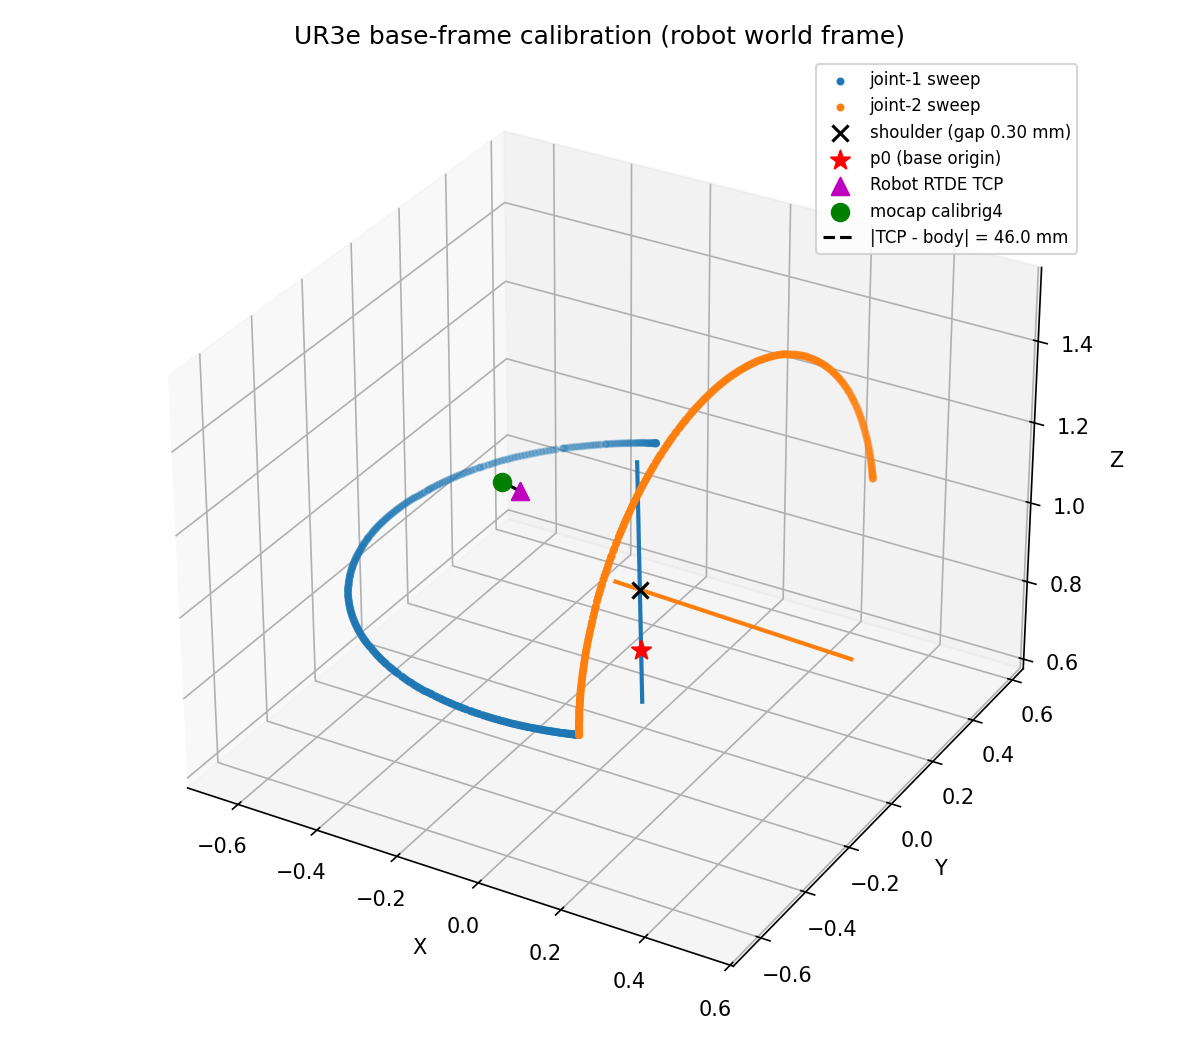
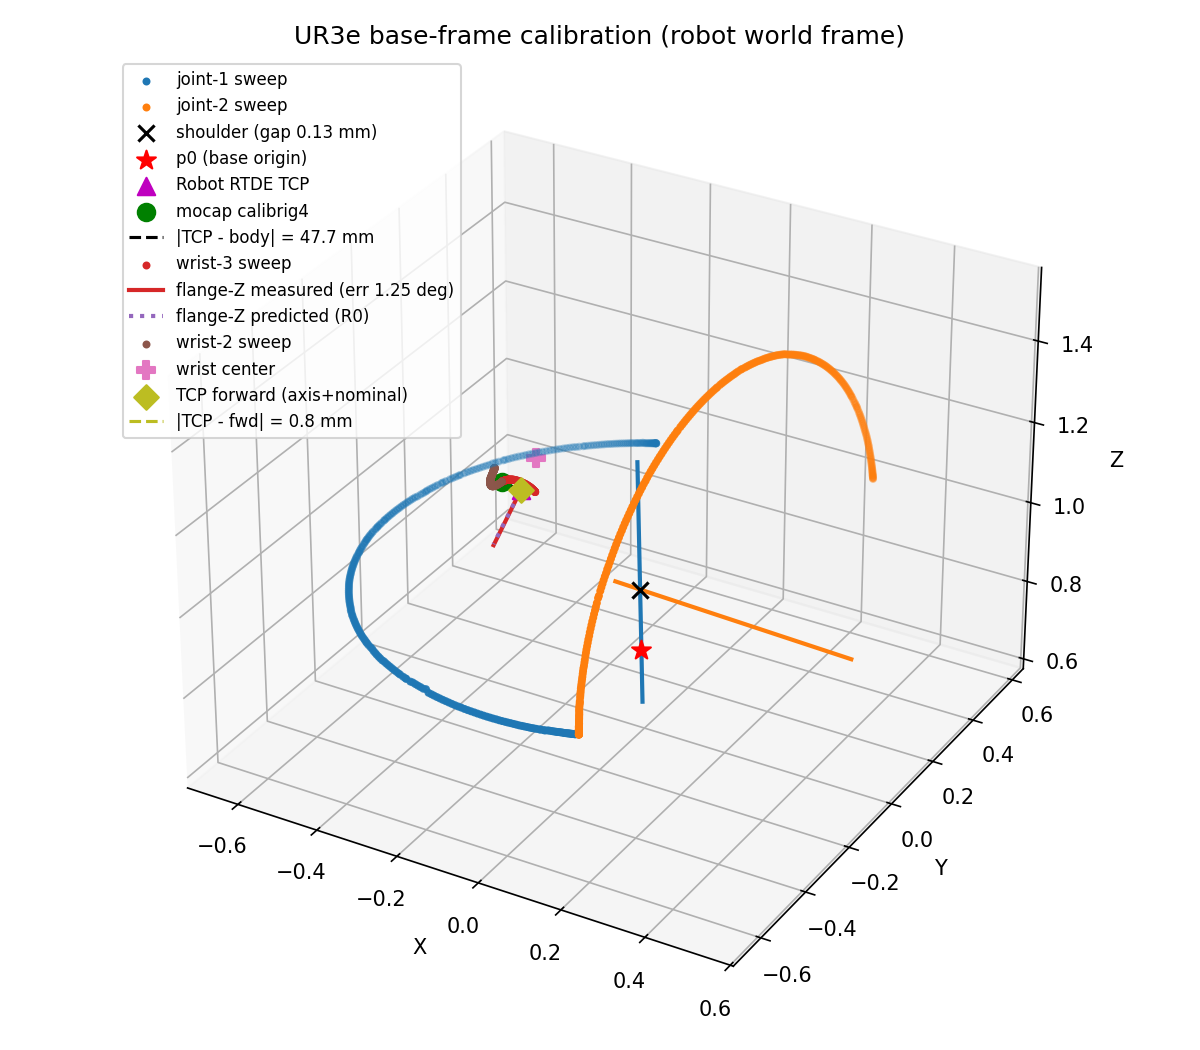
UR3 deploy: self-describing policy artifacts + task_home pick loop
Training (UR10_ppo.py, shared by UR10/UR3): add inference_config.json to the
W&B model artifact so the trained policy carries its own network_factory +
obs/action sizes.

Deploy loader (ur3_realrobot_dependencies.download_policy_from_wandb): build
metadata.json from the artifact's inference_config.json when present (real
network architecture), falling back to run.config + registry for older runs;
warn on obs/act mismatch. Fixes policy load after the prior runs logged
network_factory=None in run.config.

Pick loop (ur3_realrobot_pickloop.py): VRPN mocap reader (CubeInCube2), live
robot config (192.168.1.4, ext-urcap + gripper), Q_START = task_home with
gripper opened at start, on SUCCESS wait 3s -> open fingers -> moveJ back to
task_home, save full per-step states to CSV.

Sweep (UR3Pick_sweep.jsonl): init_keyframe tucked -> task_home for both configs.

Also includes UR3 RTDE test notebook + base-frame calibration updates.

diff --git a/robots/UR3e/ur3_realrobot_pickloop.py b/robots/UR3e/ur3_realrobot_pickloop.py
@@ -18,6 +18,7 @@ For a URSim dry-run set ROBOT_IP=127.0.0.1 and ENABLE_GRIPPER=False.
 
 import os
 import platform
+import time
 
 os.environ["XLA_FLAGS"] = "--xla_force_host_platform_device_count=1"
 if platform.system() == "Darwin":
@@ -31,14 +32,14 @@ from ur3_realrobot_dependencies import UR3RealRobotPick
 import sys
 sys.path.insert(0, os.path.join(os.path.dirname(os.path.abspath(__file__)),
                                 "../.."))
-from motion_capture.mymocap.mocap_dependencies import NokovRigidBodyReader
+from motion_capture.mymocap.vrpn_dependencies import VRPNRigidBodyReader
 from robots.hande.HandE_dependency import HandEGripper
 
 # ===========================================================================
 # CONFIGURATION
 # ===========================================================================
 
-ROBOT_IP = "192.168.1.2"          # real UR3; URSim = "127.0.0.1"
+ROBOT_IP = "192.168.1.4"          # real UR3e (PolyScope X); URSim = "127.0.0.1"
 
 # Arm control path. On PolyScope X the headless script ur_rtde normally uploads
 # does NOT run; set USE_EXT_URCAP=True to drive the arm via the External Control
@@ -46,23 +47,24 @@ ROBOT_IP = "192.168.1.2"          # real UR3; URSim = "127.0.0.1"
 # program (Host IP = this PC, port = UR_CAP_PORT) is PLAYING on the pendant with the
 # robot in Remote Control — i.e. pressing Play on the pendant is the robot-side
 # "go" gate. Leave False for the URSim dry-run (script-upload path, no gate).
-USE_EXT_URCAP = False
+USE_EXT_URCAP = True
 UR_CAP_PORT = 50002
 
 # Drop target (where to bring the box). UR3-reachable workspace.
-DROP_TARGET = [0.30, 0.10, 0.15]
+DROP_TARGET = [0.45, -0.10, 0.10]
 
-# Start pose — UR3 "low_home" keyframe arm angles from mjx_single_cube_position_ur3.xml
-Q_START = [0, -1.7, 2.25, -2.15, -1.5, -1.5]
+# Start pose — UR3 "task_home" keyframe arm angles from mjx_single_cube_position_ur3.xml
+# (gripper is opened separately below, since servoJ/moveJ only covers the 6 arm joints)
+Q_START = [0, -2.0, 1.6, -1.6, -1.5, 0]
 
 # Motion capture
 MOCAP_SERVER_IP = "10.1.1.198"
-MOCAP_RIGID_BODY_NAME = "CubeInCube"  # streamed rigid-body name; None = first body
-MOCAP_RIGID_BODY_ID = None        # optional override by integer id (takes precedence)
+MOCAP_RIGID_BODY_NAME = "CubeInCube2"  # streamed VRPN tracker name
+MOCAP_RIGID_BODY_ID = None        # kept for run-metadata only (VRPN reads by name)
 
 # Gripper: True drives the real Hand-E via the HandEGripper wrapper (Robotiq URCapX
 # XML-RPC, PolyScope X); False = no-op (URSim dry-run / arm-only test).
-ENABLE_GRIPPER = False
+ENABLE_GRIPPER = True
 GRIPPER_PORT = 49999              # Robotiq URCapX XML-RPC server (PolyScope X)
 GRIPPER_SLAVE_ID = 9             # this Hand-E = slaveId 9 ("Gripper ID 1")
 GRIPPER_SPEED_PCT = 100
@@ -78,8 +80,8 @@ CONTROL_HZ = 50.0
 ACTION_SCALE = 0.04
 LOOKAHEAD_TIME = 0.1              # servoj smoothing [0.03, 0.2]
 GAIN = 300                        # servoj stiffness [100, 2000]
-SERVOJ_A = 1.0                    # max joint accel [rad/s^2]
-SERVOJ_V = 1.0                    # max joint vel  [rad/s]
+SERVOJ_A = 0.2                    # max joint accel [rad/s^2]
+SERVOJ_V = 0.2                    # max joint vel  [rad/s]
 ALPHA = 1.0
 USE_FK_TCP = True                 # compute tcp_pos via MuJoCo FK (matches sim site)
 
@@ -97,11 +99,12 @@ POLICY_PATH = os.path.join(
 
 # W&B policy download (used only if POLICY_PATH does not already exist).
 # Fill WANDB_RUN_ID with the trained run id after the cluster job completes.
-WANDB_RUN_ID = None               # e.g. "ur3pick_baseline_20260605_..."
+WANDB_RUN_ID = "pickOrient4cm_lr_low_longunroll_20260607_125238_2201"              # e.g. "ur3pick_baseline_20260605_..."
 WANDB_ENTITY = "weissma6-zhaw-school-of-engineering"
 WANDB_PROJECT = "UR3_pick_ppo"
 FOLDER_OUT = os.path.join(SCRIPT_DIR, "results")
 VIDEO_OUT = os.path.join(FOLDER_OUT, "ur3_pick_replay.mp4")
+CSV_OUT = os.path.join(FOLDER_OUT, "ur3_pick_states.csv")
 PLOTS_OUT = os.path.join(FOLDER_OUT, "ur3_pick_plots.png")
 META_OUT = os.path.join(FOLDER_OUT, "ur3_pick_meta.json")
 VIDEO_FPS = 50.0
@@ -129,12 +132,10 @@ if not robot.is_connected():
     )
 robot.print_feedback()
 
-# ── Connect mocap ──────────────────────────────────────────────────────
-_body_label = MOCAP_RIGID_BODY_ID if MOCAP_RIGID_BODY_ID is not None else MOCAP_RIGID_BODY_NAME
-print(f"\nConnecting to mocap {MOCAP_SERVER_IP} (rigid body {_body_label}) ...")
-mocap = NokovRigidBodyReader(
+# ── Connect mocap (VRPN) ───────────────────────────────────────────────
+print(f"\nConnecting to mocap {MOCAP_SERVER_IP} (rigid body {MOCAP_RIGID_BODY_NAME}) ...")
+mocap = VRPNRigidBodyReader(
     MOCAP_SERVER_IP,
-    rigid_body_id=MOCAP_RIGID_BODY_ID,
     rigid_body_name=MOCAP_RIGID_BODY_NAME,
 )
 if not mocap.start(timeout=5.0):
@@ -144,6 +145,26 @@ if not mocap.start(timeout=5.0):
     )
 box0 = mocap.get_rigid_body_xyz()
 print(f"Initial box (mocap): {None if box0 is None else np.round(box0, 4).tolist()}")
+
+# ── Gripper wiring ─────────────────────────────────────────────────────
+# run_policy_loop passes gripper_norm in [0,1] (0=open, 1=closed); the policy's
+# tendon-ctrl span [0,0.05] maps to per-finger [0,0.025] m, so norm*0.025 is the
+# sim finger value the wrapper expects. ENABLE_GRIPPER=False keeps the dry-run no-op.
+gripper = None
+if ENABLE_GRIPPER:
+    gripper = HandEGripper(
+        ROBOT_IP, port=GRIPPER_PORT, slave_id=GRIPPER_SLAVE_ID,
+        speed_pct=GRIPPER_SPEED_PCT, force_pct=GRIPPER_FORCE_PCT,
+    )
+    gripper.connect()
+    gripper.open_gripper()  # start the task with fingers open
+    gripper_fn = lambda norm: gripper.command(norm * 0.025)  # noqa: E731
+else:
+    gripper_fn = lambda norm: None  # noqa: E731
+
+target = np.array(DROP_TARGET, dtype=np.float32)
+print(f"\nDrop target : {target.tolist()}")
+print(f"Starting pick loop at {CONTROL_HZ} Hz ...")
 
 # ── Move to start ──────────────────────────────────────────────────────
 print(f"\nMoving to start pose {Q_START}")
@@ -166,24 +187,7 @@ robot.load_policy_fn(policy_path=POLICY_PATH, deterministic=True)
 if USE_FK_TCP:
     robot.init_fk_model(MODEL_PATH)
 
-# ── Gripper wiring ─────────────────────────────────────────────────────
-# run_policy_loop passes gripper_norm in [0,1] (0=open, 1=closed); the policy's
-# tendon-ctrl span [0,0.05] maps to per-finger [0,0.025] m, so norm*0.025 is the
-# sim finger value the wrapper expects. ENABLE_GRIPPER=False keeps the dry-run no-op.
-gripper = None
-if ENABLE_GRIPPER:
-    gripper = HandEGripper(
-        ROBOT_IP, port=GRIPPER_PORT, slave_id=GRIPPER_SLAVE_ID,
-        speed_pct=GRIPPER_SPEED_PCT, force_pct=GRIPPER_FORCE_PCT,
-    )
-    gripper.connect()
-    gripper_fn = lambda norm: gripper.command(norm * 0.025)  # noqa: E731
-else:
-    gripper_fn = lambda norm: None  # noqa: E731
 
-target = np.array(DROP_TARGET, dtype=np.float32)
-print(f"\nDrop target : {target.tolist()}")
-print(f"Starting pick loop at {CONTROL_HZ} Hz ...")
 
 # ── Run policy loop ────────────────────────────────────────────────────
 df, stats = robot.run_policy_loop(
@@ -208,6 +212,20 @@ final_dist = stats["final_box_to_target_dist"]
 print(f"\nFinal box->target: {final_dist * 1000:.1f} mm — "
       f"{'REACHED' if final_dist < REACH_TOL else 'NOT REACHED'}")
 print(f"Steps: {len(df)}, wall time: {stats['total_wall_time_s']:.2f}s")
+
+# ── Success + release ──────────────────────────────────────────────────
+reached = final_dist < REACH_TOL
+if reached:
+    print("\nSUCCESS")
+    time.sleep(3.0)
+    if gripper is not None:
+        gripper.open_gripper()   # direction-independent URCapX open
+    else:
+        gripper_fn(0.0)          # dry-run no-op / norm=0 = open
+    print("Gripper opened.")
+    print(f"Returning to task_home {Q_START}")
+    robot.send_movej(Q_START, a=1.0, v=0.5, asynchronous=False)  # blocking moveJ
+
 robot.print_stats(stats, keys=[
     "true_inferred_frequency_hz",
     "mean_loop_hz_true",
@@ -229,7 +247,9 @@ frames, actual_fps = robot.render_video_from_log(mj, df, video_fps=VIDEO_FPS)
 robot.save_video(frames, out_path=VIDEO_OUT, fps=actual_fps)
 print(f"Video: {VIDEO_OUT}")
 
-# ── Save plots + metadata ──────────────────────────────────────────────
+# ── Save full per-step state + plots + metadata ────────────────────────
+df.to_csv(CSV_OUT, index=False)
+print(f"States: {CSV_OUT}")
 robot.save_plots(df, out_path=PLOTS_OUT)
 robot.save_run_metadata(
     META_OUT,

diff --git a/robots/UR3e/ur3_realrobot_dependencies.py b/robots/UR3e/ur3_realrobot_dependencies.py
@@ -354,20 +354,45 @@ class UR3RealRobotPick:
         art_dir = policy_art.download(root=os.path.join(out_dir, "_artifact"))
         shutil.copyfile(os.path.join(art_dir, "params.msgpack"), params_out)
 
-        env_name = run.config.get("env_name", "UR3Pick")
+        # Prefer the inference_config.json shipped inside the artifact (carries the
+        # real network_factory + obs/action sizes); fall back to run.config + the
+        # registry for older runs that predate self-describing artifacts.
+        inf_cfg_path = os.path.join(art_dir, "inference_config.json")
+        inf_cfg = {}
+        if os.path.exists(inf_cfg_path):
+            with open(inf_cfg_path) as f:
+                inf_cfg = _json.load(f)
+
+        env_name = inf_cfg.get("env_name") or run.config.get("env_name", "UR3Pick")
         env = registry.load(env_name)
-        nf = run.config.get("network_factory", {}) or {}
+        reg_obs, reg_act = int(env.observation_size), int(env.action_size)
+
+        if inf_cfg:
+            nf = inf_cfg.get("network_factory", {}) or {}
+            obs_dim = int(inf_cfg.get("observation_size", reg_obs))
+            action_dim = int(inf_cfg.get("action_size", reg_act))
+            if obs_dim != reg_obs or action_dim != reg_act:
+                print(f"[wandb] WARNING: artifact obs/act ({obs_dim},{action_dim}) "
+                      f"!= env {env_name} ({reg_obs},{reg_act}); using artifact dims")
+        else:
+            nf = run.config.get("network_factory", {}) or {}
+            obs_dim, action_dim = reg_obs, reg_act
+            if not nf:
+                print("[wandb] WARNING: no network_factory in artifact or run.config; "
+                      "load may fail with a params shape mismatch")
         metadata = {
             "env_name": env_name,
-            "obs_dim": int(env.observation_size),
-            "action_dim": int(env.action_size),
+            "obs_dim": obs_dim,
+            "action_dim": action_dim,
             "network_factory": nf,
             "wandb_run_id": run_id,
             "wandb_entity": entity,
             "wandb_project": project,
-            "action_scale": run.config.get("action_scale", 0.04),
-            "ctrl_dt": run.config.get("ctrl_dt", 0.02),
-            "episode_length": run.config.get("episode_length"),
+            "action_scale": inf_cfg.get("action_scale",
+                                        run.config.get("action_scale", 0.04)),
+            "ctrl_dt": inf_cfg.get("ctrl_dt", run.config.get("ctrl_dt", 0.02)),
+            "episode_length": inf_cfg.get("episode_length",
+                                          run.config.get("episode_length")),
         }
         with open(meta_out, "w") as f:
             _json.dump(metadata, f, indent=2)

diff --git a/robots/UR10e/UR10_ppo.py b/robots/UR10e/UR10_ppo.py
@@ -1072,6 +1072,7 @@ def run_experiment(cfg: Dict[str, Any], out_dir: str) -> None:
 
         artifact.add_file(params_path)
         artifact.add_file(metrics_path)
+        artifact.add_file(inference_cfg_path)   # makes the policy self-describing
         wandb.log_artifact(artifact)
 
     finally:
